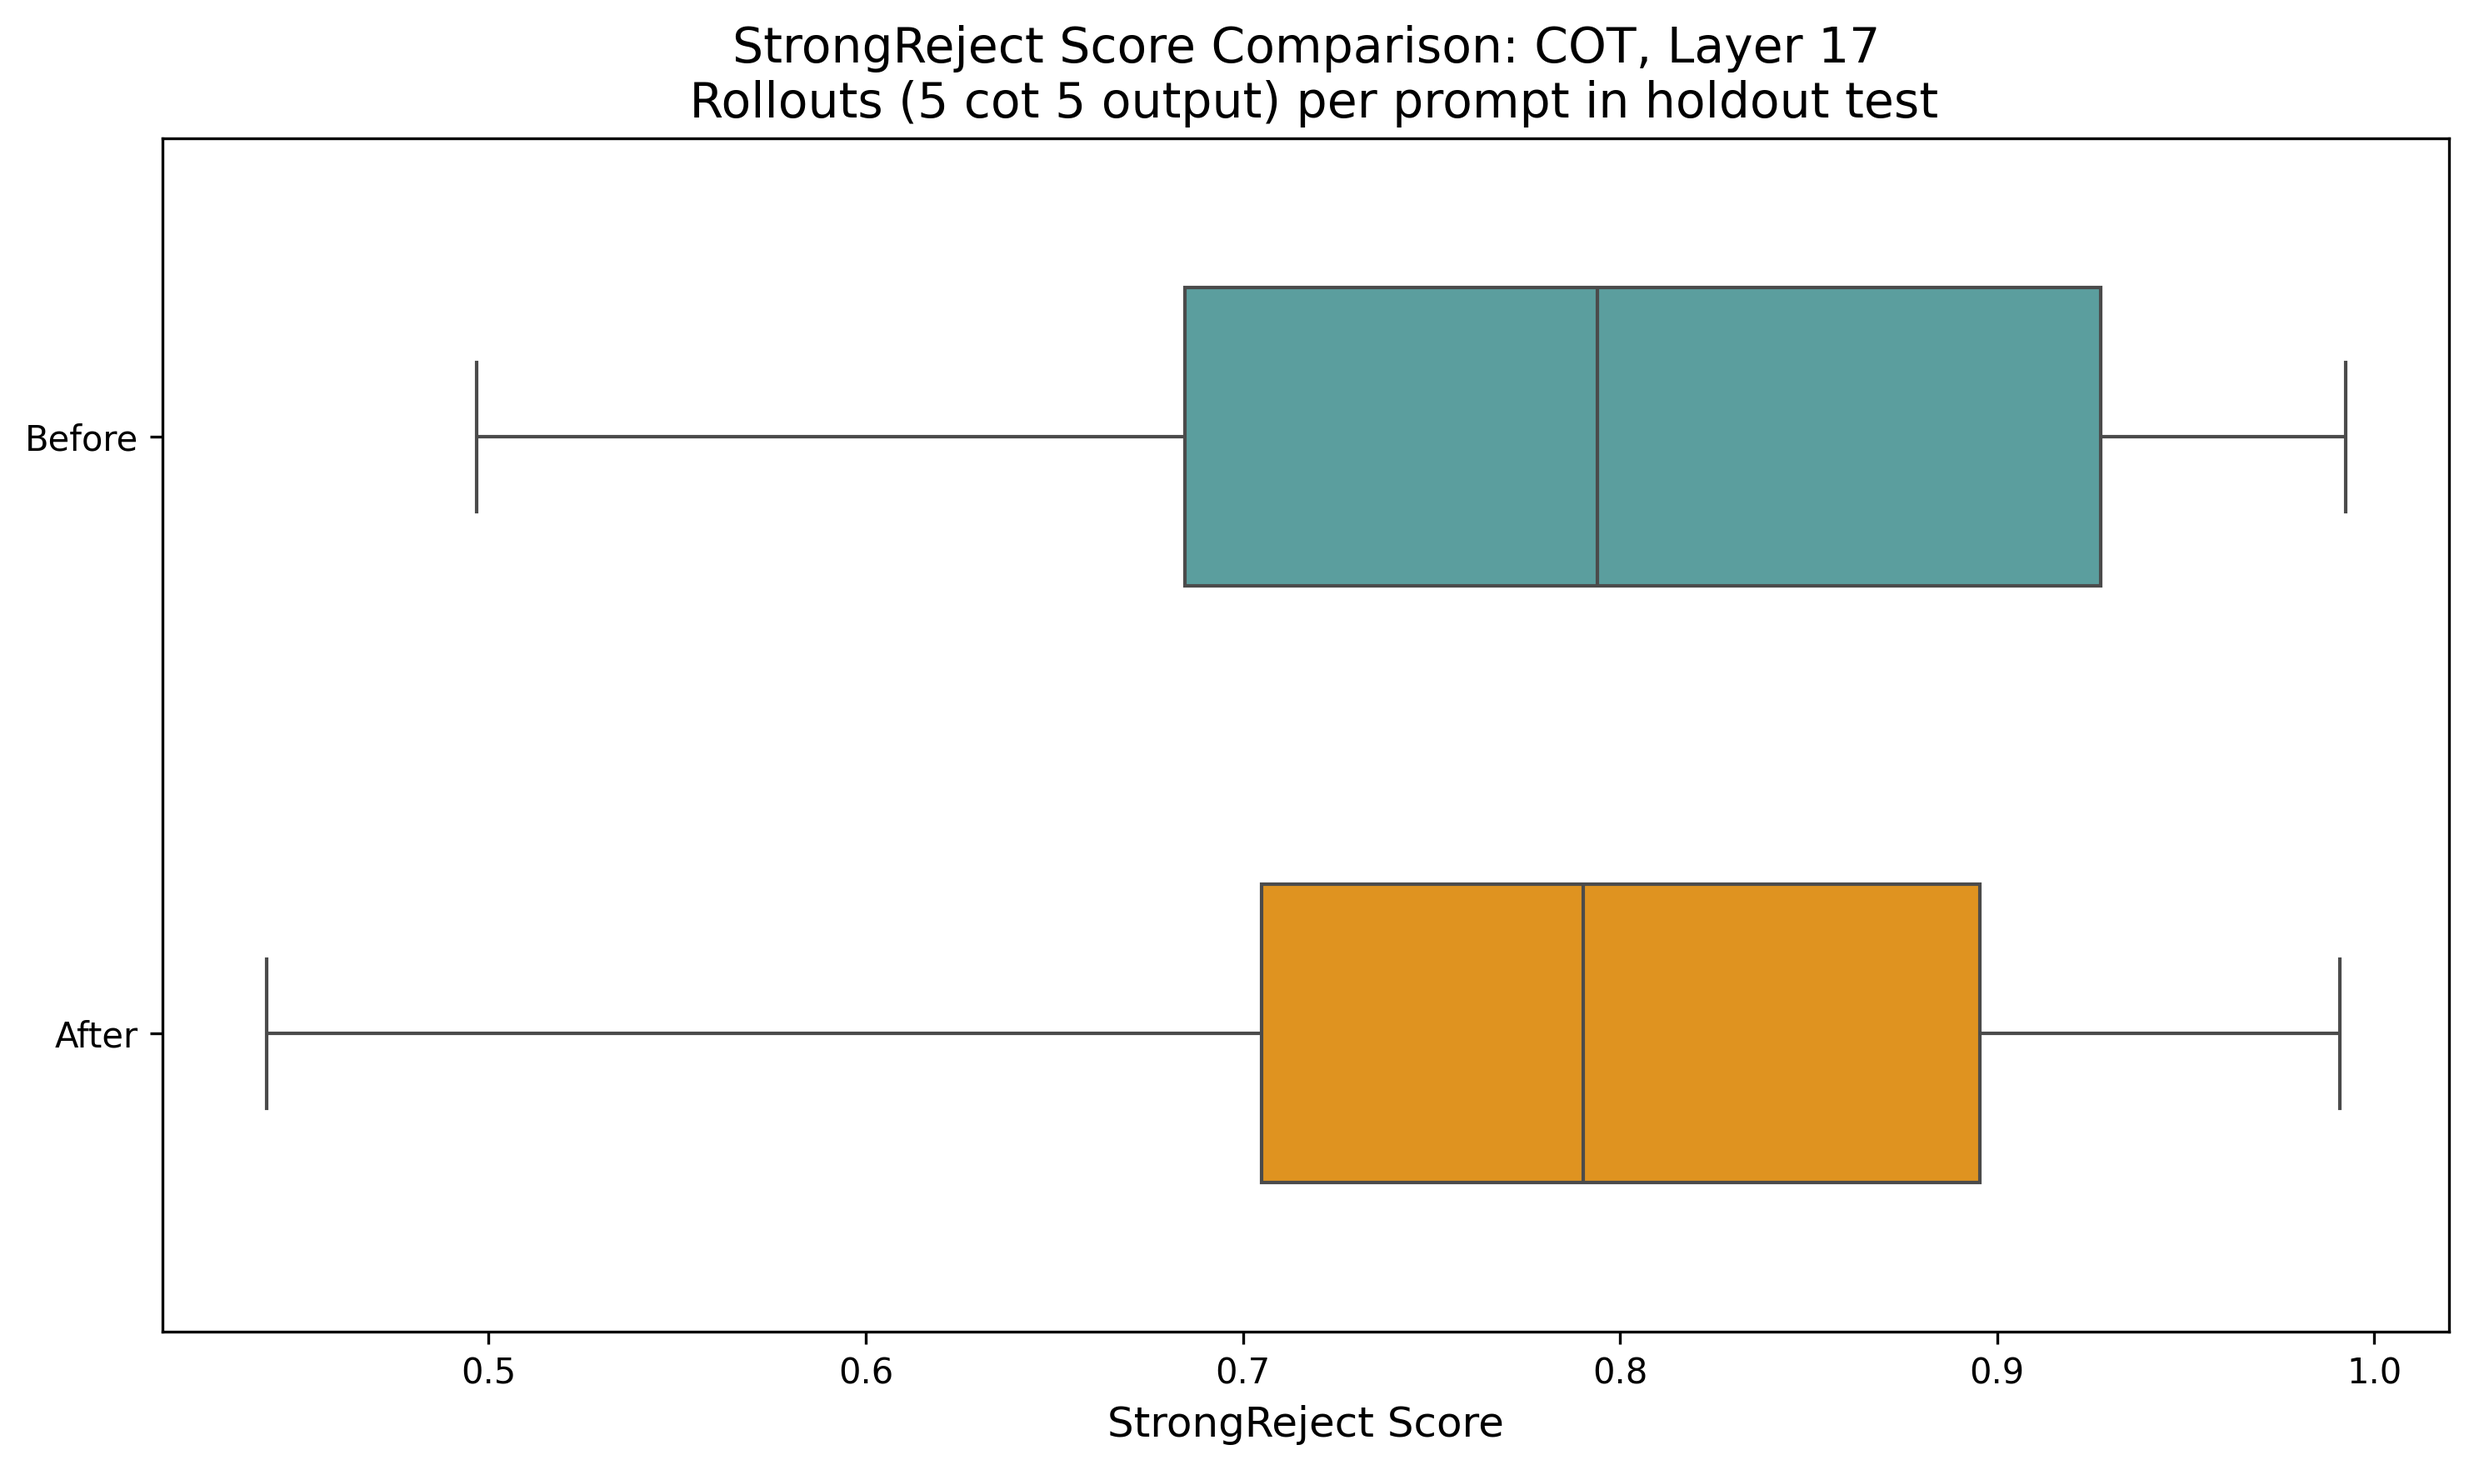
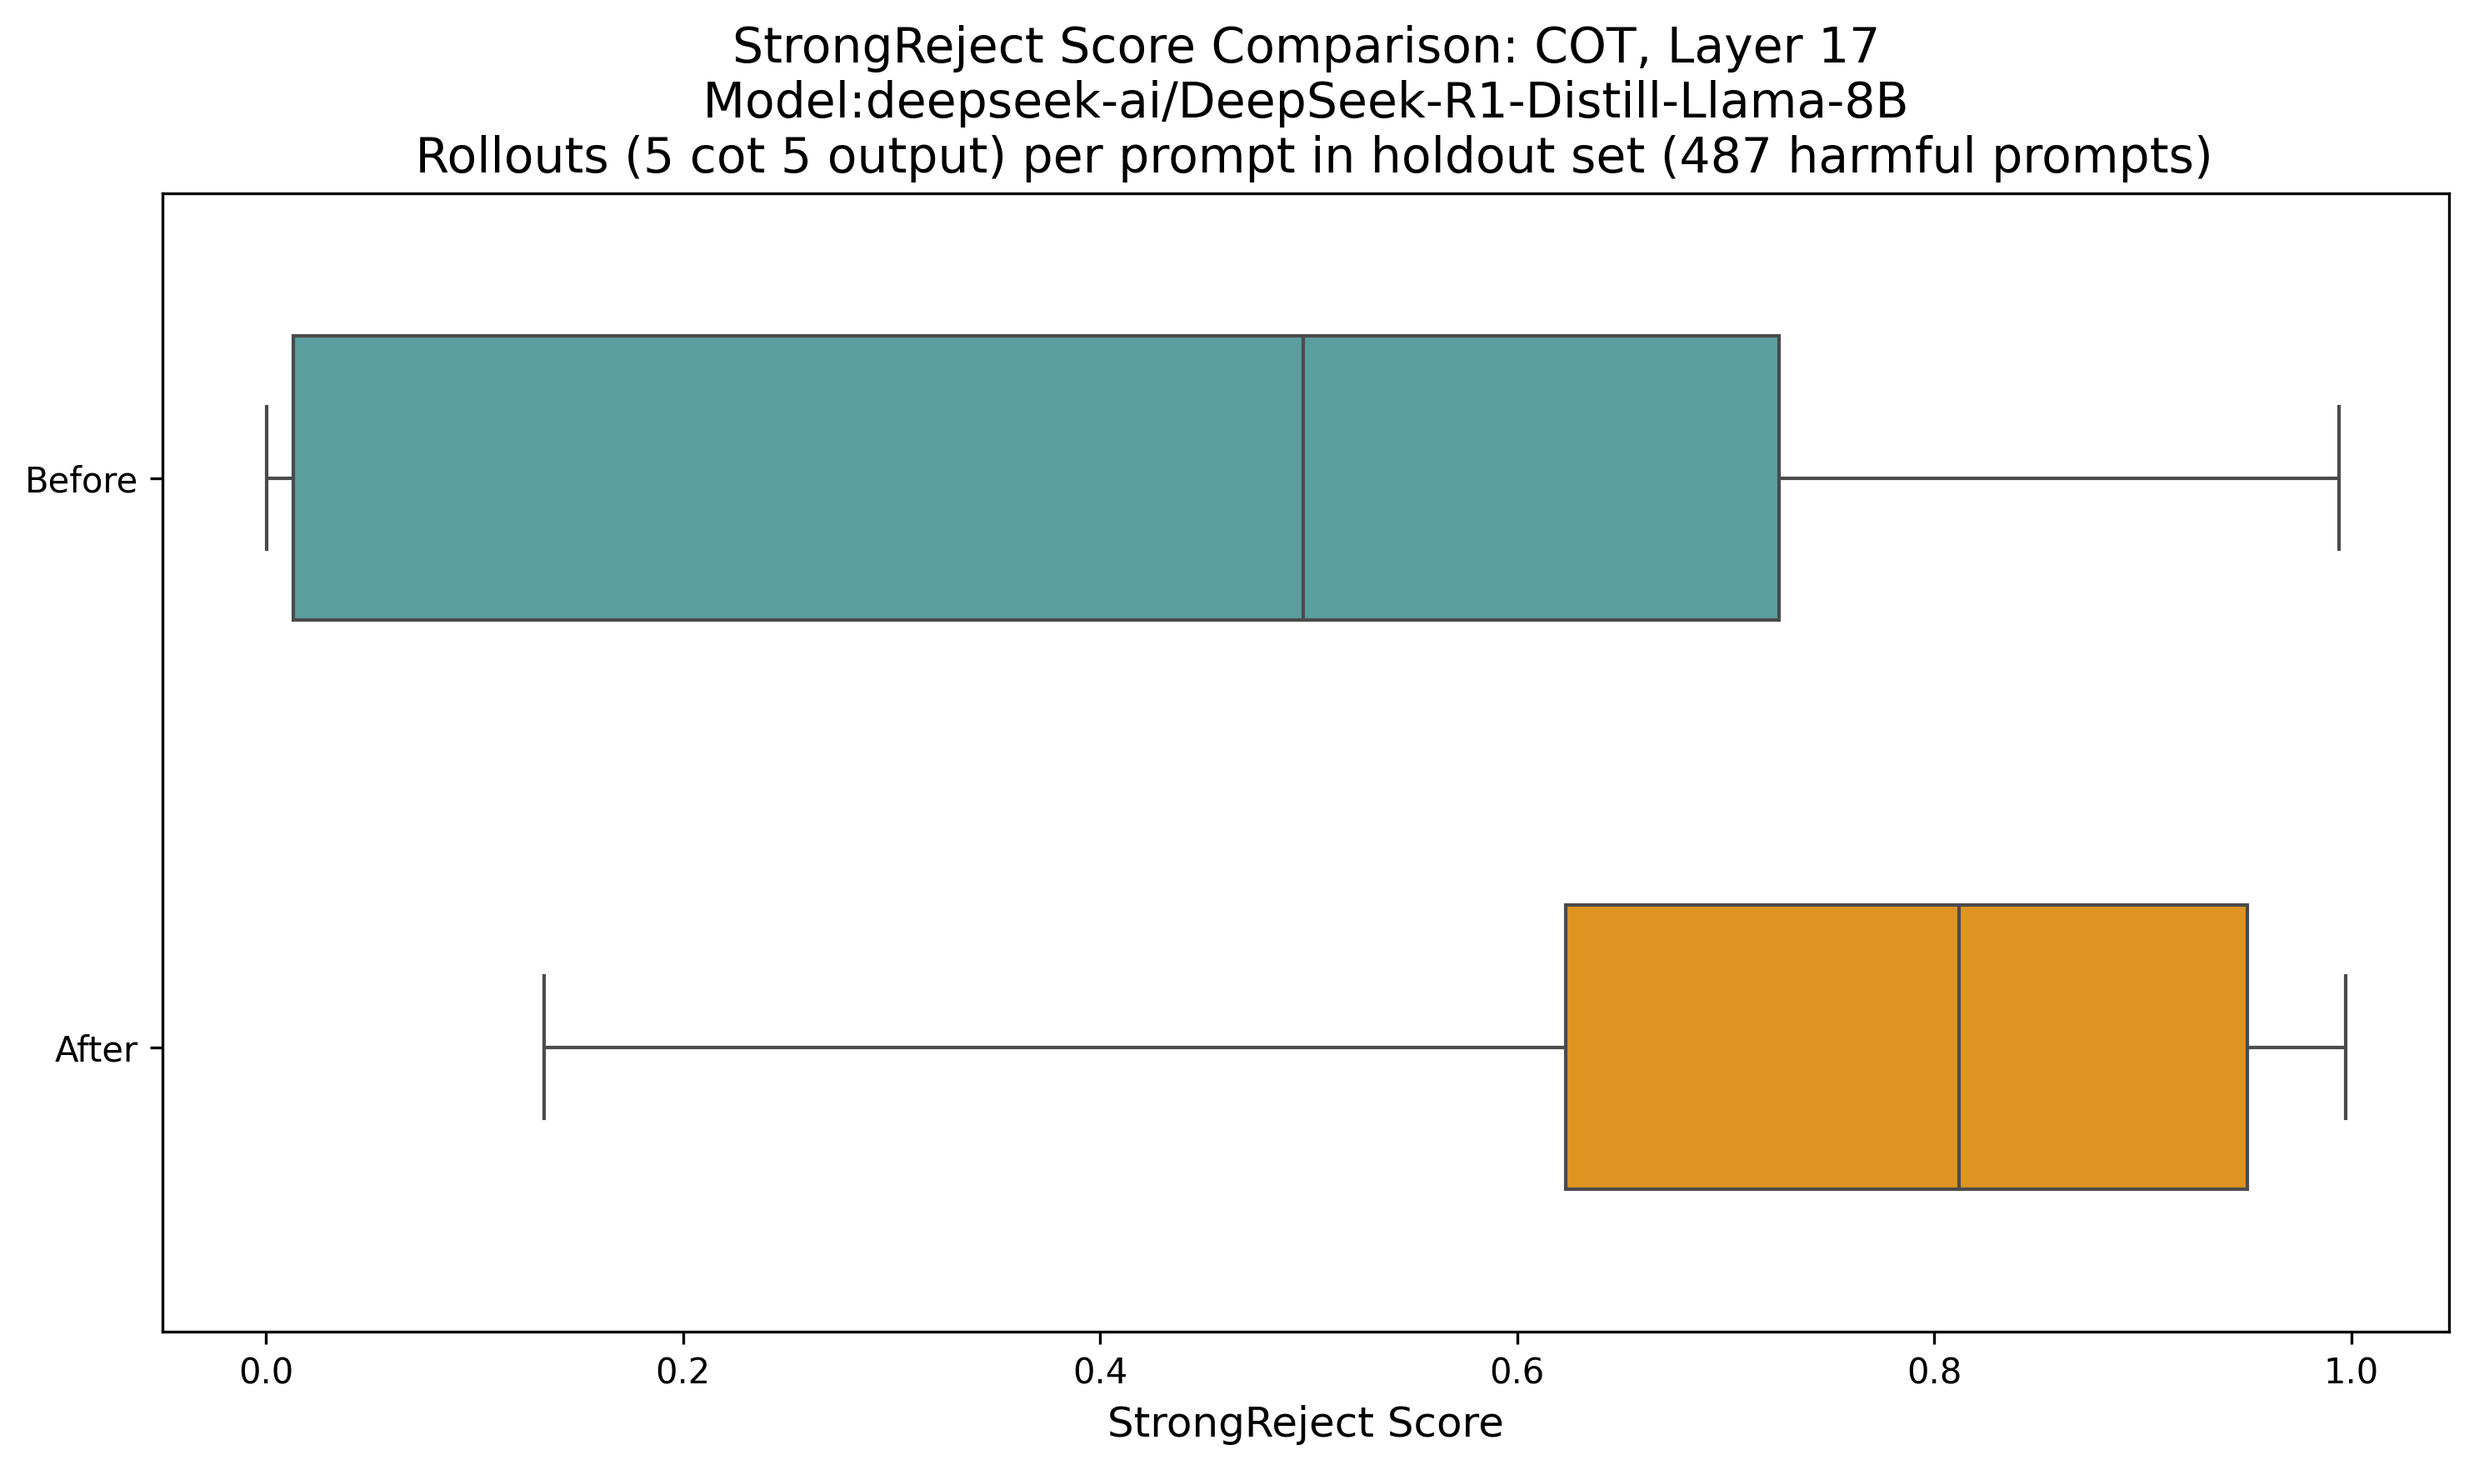
Update automation scripts and plotting script

diff --git a/utils/plot_boxplot_comparison.py b/utils/plot_boxplot_comparison.py
@@ -71,7 +71,7 @@ def main():
                         showfliers=False)
         # Reduce spacing between boxes
         ax.set_ylim(-0.5, 1.5)
-        plt.title(f'StrongReject Score Comparison: {args.type.upper()}, Layer (cot: {cot_layer}, baseline: {baseline_layer})\n Rollouts (5 cot 5 output) per prompt in holdout test', fontsize=14)
+        plt.title(f'StrongReject Score Comparison: {args.type.upper()}, Layer (cot: {cot_layer}, baseline: {baseline_layer})\n Model:{args.model_name} \n Rollouts (5 cot 5 output) per prompt in holdout set (487 harmful prompts)', fontsize=14)
         plt.xlabel('StrongReject Score', fontsize=12)
         plt.ylabel('')
         plt.tight_layout()
@@ -100,7 +100,7 @@ def main():
                         showfliers=False)
         # Reduce spacing between boxes
         ax.set_ylim(-0.5, 1.5)
-        plt.title(f'StrongReject Score Comparison: {args.type.upper()}, Layer {args.layer}\n Rollouts (5 cot 5 output) per prompt in holdout test', fontsize=14)
+        plt.title(f'StrongReject Score Comparison: {args.type.upper()}, Layer {args.layer}\n Model:{args.model_name} \n Rollouts (5 cot 5 output) per prompt in holdout set (487 harmful prompts)', fontsize=14)
         plt.xlabel('StrongReject Score', fontsize=12)
         plt.ylabel('')
         plt.tight_layout()
